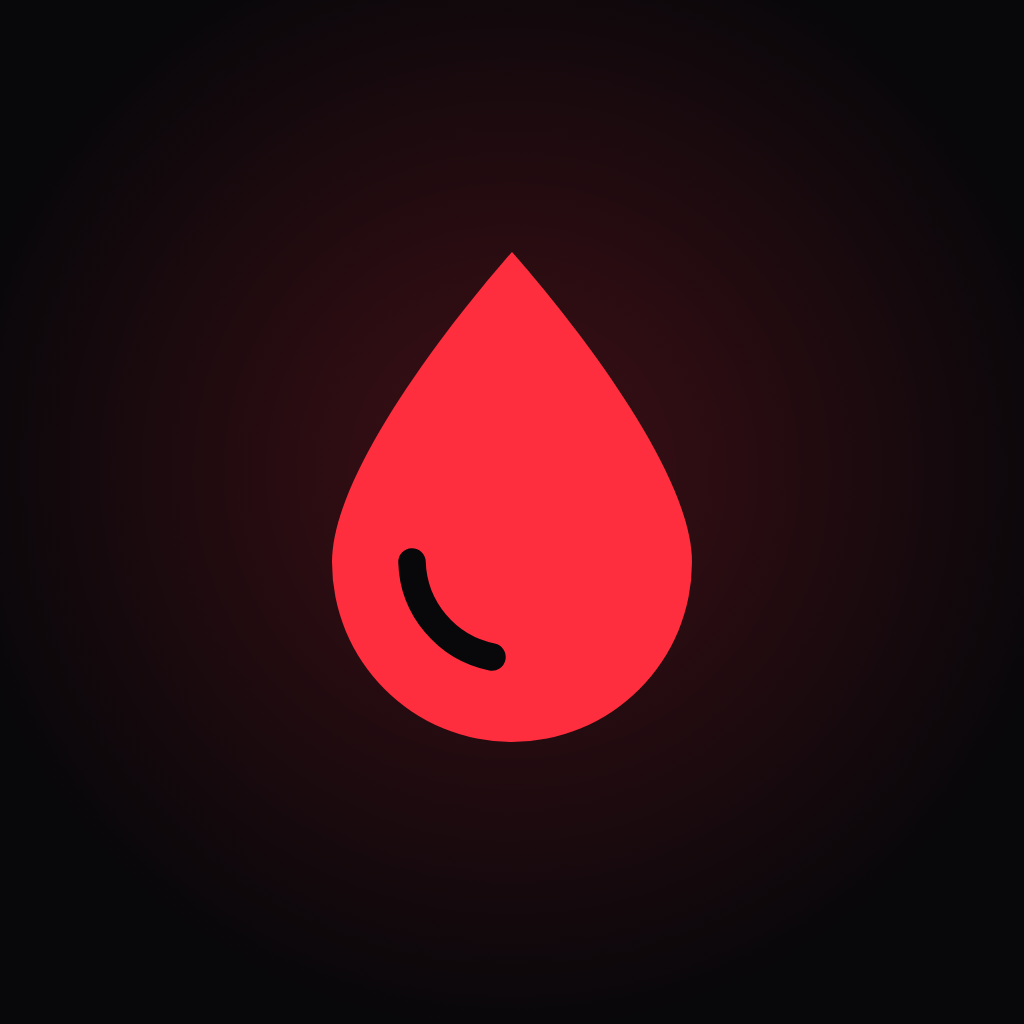
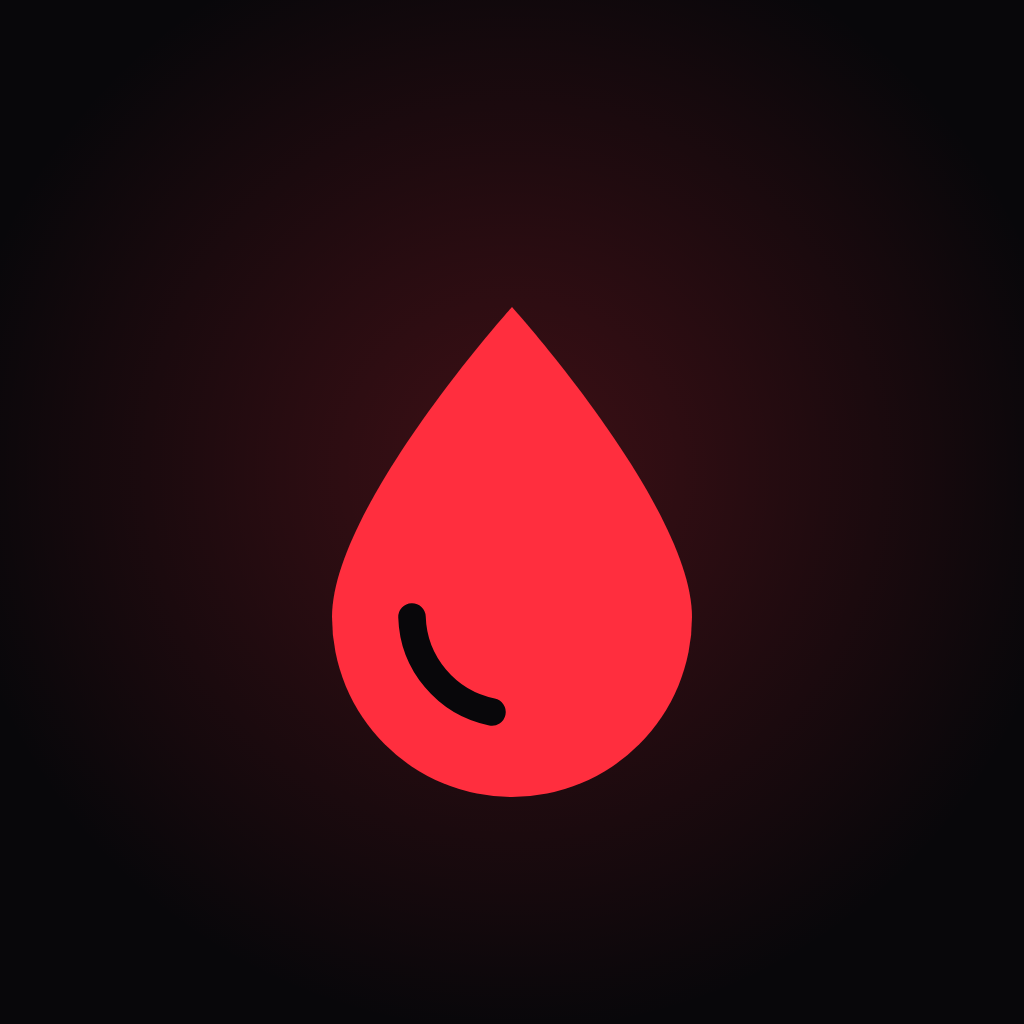
Add files via upload

Changed region(s): [[0.3125, 0.25, 0.6875, 0.7812]]

diff --git a/native/login.js b/native/login.js
@@ -6,13 +6,11 @@ if (window.TB_PUBLIC && window.TB_DRV && window.TB_SECURE) {
   /* Abertura: logo centralizado com animação; só depois entra a tela de login (ou direto o app, para quem já entrou). */
   const SPLASH_MS = 1900, t0 = Date.now();
   const splash = document.createElement('div'); splash.id = 'tb-splash'; splash.setAttribute('role', 'img'); splash.setAttribute('aria-label', 'TiaBete');
-  splash.innerHTML = '<svg class="sp-drop" viewBox="0 0 100 100" width="96" height="96" aria-hidden="true"><path d="M50 4 C50 4 14 44 14 66 A36 36 0 0 0 86 66 C86 44 50 4 50 4 Z" fill="var(--red)"/><path d="M30 66 A20 20 0 0 0 46 85" fill="none" stroke="var(--bg)" stroke-width="5.5" stroke-linecap="round"/></svg><div class="sp-name">Tia<b>Bete</b></div><div class="sp-sub">GLICOSE CONTROL</div>';
+  splash.innerHTML = '<svg class="sp-drop" viewBox="0 0 100 100" width="176" height="176" aria-hidden="true"><path d="M50 4 C50 4 14 44 14 66 A36 36 0 0 0 86 66 C86 44 50 4 50 4 Z" fill="var(--red)"/><path d="M30 66 A20 20 0 0 0 46 85" fill="none" stroke="var(--bg)" stroke-width="5.5" stroke-linecap="round"/></svg>';
   document.body.appendChild(splash);
   const hideSplash = () => { const w = Math.max(0, SPLASH_MS - (Date.now() - t0)); setTimeout(() => { splash.classList.add('out'); setTimeout(() => splash.remove(), 450); }, w); };
-  const css0 = `#tb-splash{position:fixed;inset:0;z-index:3000;background:var(--bg);display:flex;flex-direction:column;align-items:center;justify-content:center;gap:14px;transition:opacity .45s ease}#tb-splash.out{opacity:0;pointer-events:none}
-  #tb-splash .sp-drop{animation:sp-in .7s cubic-bezier(.2,.9,.3,1.2) both,sp-pulse 1.6s ease-in-out .7s infinite;filter:drop-shadow(0 6px 22px rgba(255,46,62,.45))}
-  #tb-splash .sp-name{font-family:var(--f-display);font-size:34px;font-weight:700;color:var(--fg);animation:sp-up .6s ease .35s both}#tb-splash .sp-name b{color:var(--red)}
-  #tb-splash .sp-sub{font-family:var(--f-mono);font-size:11px;letter-spacing:.28em;color:var(--mut);animation:sp-up .6s ease .55s both}
+  const css0 = `#tb-splash{position:fixed;inset:0;z-index:3000;background:var(--bg);display:flex;flex-direction:column;align-items:center;justify-content:center;transition:opacity .45s ease}#tb-splash.out{opacity:0;pointer-events:none}
+  #tb-splash .sp-drop{animation:sp-in .7s cubic-bezier(.2,.9,.3,1.2) both,sp-pulse 1.6s ease-in-out .7s infinite;width:min(46vw,200px);height:auto;overflow:visible;filter:drop-shadow(0 8px 28px rgba(255,46,62,.5))}
   @keyframes sp-in{from{opacity:0;transform:translateY(-26px) scale(.6)}to{opacity:1;transform:none}}@keyframes sp-up{from{opacity:0;transform:translateY(10px)}to{opacity:1;transform:none}}@keyframes sp-pulse{0%,100%{transform:scale(1)}50%{transform:scale(1.07)}}
   @media (prefers-reduced-motion:reduce){#tb-splash *{animation:none!important}}`;
   const css = css0 + `#tb-gate{position:fixed;inset:0;z-index:2000;background:var(--bg);color:var(--fg);display:flex;flex-direction:column;justify-content:center;gap:18px;padding:max(24px,env(safe-area-inset-top)) 24px max(24px,env(safe-area-inset-bottom));overflow:auto;font-family:var(--f-body)}
@@ -20,7 +18,7 @@ if (window.TB_PUBLIC && window.TB_DRV && window.TB_SECURE) {
   #tb-gate p{margin:0;color:var(--mut);font-size:15px;line-height:1.5}#tb-gate .gb{display:flex;flex-direction:column;gap:10px}
   #tb-gate .gl{background:none;border:0;color:var(--mut);text-decoration:underline;font:inherit;font-size:14px;padding:10px;cursor:pointer}`;
   const st = document.createElement('style'); st.textContent = css; document.head.appendChild(st);
-  const drop = '<svg viewBox="0 0 100 100" width="46" height="46" aria-hidden="true"><path d="M50 4 C50 4 14 44 14 66 A36 36 0 0 0 86 66 C86 44 50 4 50 4 Z" fill="var(--red)"/><path d="M30 66 A20 20 0 0 0 46 85" fill="none" stroke="var(--bg)" stroke-width="5.5" stroke-linecap="round"/></svg>';
+  const drop = '<svg viewBox="0 0 100 100" width="46" height="46" overflow="visible" aria-hidden="true"><path d="M50 4 C50 4 14 44 14 66 A36 36 0 0 0 86 66 C86 44 50 4 50 4 Z" fill="var(--red)"/><path d="M30 66 A20 20 0 0 0 46 85" fill="none" stroke="var(--bg)" stroke-width="5.5" stroke-linecap="round"/></svg>';
   const need = async () => !(await SEC.getCfg('g-profile')) && !(await SEC.getCfg('login-skip')) && !(await SEC.has('g-refresh'));
   function paint() {
     if (!gate) { gate = document.createElement('div'); gate.id = 'tb-gate'; gate.setAttribute('role', 'dialog'); gate.setAttribute('aria-label', 'Entrar no TiaBete'); document.body.appendChild(gate); }
